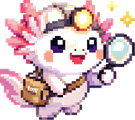
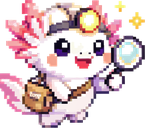
fix(geode): fix broken mascot sprites — remove pixelated rendering, 2x retina export
Sprites re-exported at 128px (2x for 64px display) with improved
background removal. Removed image-rendering: pixelated which caused
ugly artifacts on non-pixel-perfect downscaled images.

diff --git a/public/geode.html b/public/geode.html
@@ -95,7 +95,6 @@
         .section-mascot img {
             height: 64px;
             width: auto;
-            image-rendering: pixelated;
             filter: drop-shadow(0 2px 8px rgba(244,184,200,0.3));
             animation: mascot-float 4s ease-in-out infinite;
         }
@@ -9238,7 +9237,7 @@ CachePort          ──►    RedisCacheAdapter
         </a>
     </div>
     <div style="margin-bottom: 1.5rem; display: flex; align-items: center; justify-content: center; gap: 0.75rem;">
-        <img src="images/geode-idle.png" alt="Geodi" style="height: 48px; width: auto; image-rendering: pixelated; filter: drop-shadow(0 2px 8px rgba(244,184,200,0.2)); opacity: 0.8;">
+        <img src="images/geode-idle.png" alt="Geodi" style="height: 48px; width: auto; filter: drop-shadow(0 2px 8px rgba(244,184,200,0.2)); opacity: 0.8;">
         <span style="font-size: 0.75rem; color: var(--sand-warm); font-family: 'Fira Code', monospace; letter-spacing: 0.05em;">
             <span class="lang-ko">Discovered by Geodi</span>
             <span class="lang-en">Discovered by Geodi</span>
